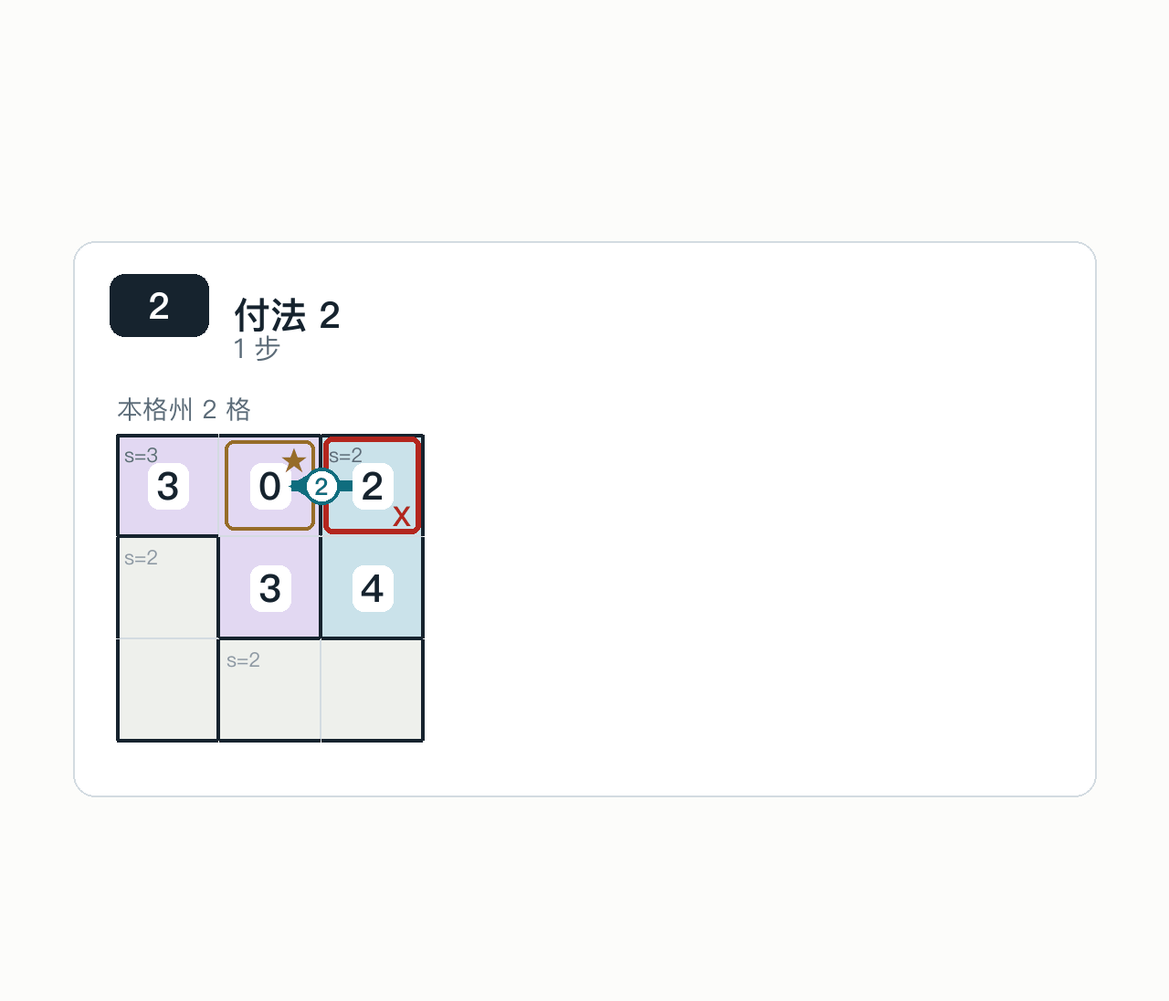
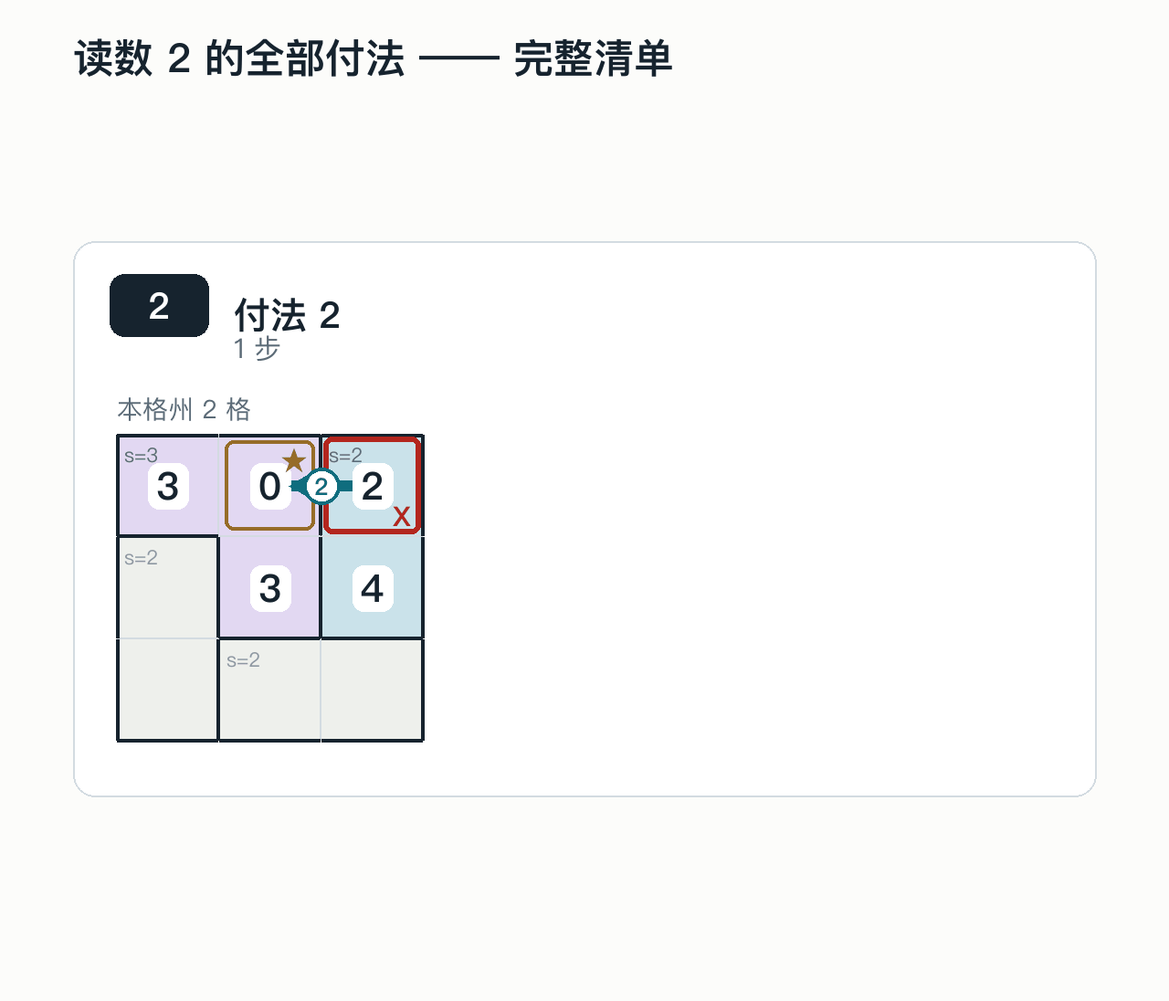
page: the lemma says what it is — the complete list of ways a reading is paid
The list is exhaustive, so the page says so: for every reading from 0 to 8
these are ALL the ways such a number can be paid, not a sample of them. The
figure carries the same line, so a picture opened on its own says it too.

  the intro names the completeness ("if a square reads 5, the four ways below
  are all of them")
  every card carries a "complete" badge
  the family line reads "all the ways it can be paid", not "families"
  the figures get a one-line head: "every way a reading of k can be paid —
  the complete list"

Changed region(s): [[0.0625, 0.031, 0.3438, 0.0931], [0.4375, 0.031, 0.5938, 0.0931], [0.375, 0.031, 0.4062, 0.062]]

diff --git a/its-a-metric-too/lemma.html b/its-a-metric-too/lemma.html
@@ -49,6 +49,7 @@ a { color: var(--accent); }
 .lemma figcaption b { font-family: var(--f-display); font-size: 1.05rem; font-weight: 700; color: var(--ink); }
 .lemma .lp { font-size: 0.74rem; color: var(--muted); }
 .lemma .lp.pin { color: var(--good); }
+.lemma .lp.ok { color: var(--accent); font-weight: 600; }
 .lemma img { max-width: 100%; height: auto; width: auto; display: block;
   border: 1px solid var(--line); border-radius: 3px; background: #fcfcf9; }
 .lemma a.fig { display: inline-block; max-width: 100%; line-height: 0; }
@@ -64,7 +65,7 @@ a { color: var(--accent); }
   <header>
     <div>
       <h1 data-i18n="lemmaPageTitle">The lemma: what a reading forces</h1>
-      <p class="sub" data-i18n="lemmaIntro">A number in a square is a cost: the least total cost of any walk from that square to a capitol. This page says what that number can be — the ways it can be paid, drawn on boards the rule engine checked — and what each way forces on the square that carries it.</p>
+      <p class="sub" data-i18n="lemmaIntro">A number in a square is a cost: the least total cost of any walk from that square to a capitol. <b>For every reading from 0 to 8, what follows is the complete list</b> — every way such a number can be paid, each one drawn on a board the rule engine checked, and what it forces on the square that carries it. There is no “and so on”: if a square reads 5, the four ways below are all of them.</p>
     </div>
     <nav class="pagelinks">
       <a href="harness.html" data-i18n="linkHarness">Play the harness</a>
@@ -77,58 +78,58 @@ a { color: var(--accent); }
 
   <section class="lemmas">
     <figure class="lemma">
-      <figcaption><b data-i18n="lemmaWord">Reading</b> 0 <span class="lp" data-i18n="lemmaFree">does not pin the square's own state size</span></figcaption>
+      <figcaption><b data-i18n="lemmaWord">Reading</b> 0 <span class="lp" data-i18n="lemmaFree">does not pin the square's own state size</span> <span class="lp ok" data-i18n="lemmaComplete">complete</span></figcaption>
       <a class="fig" data-i18n-href="reading-scenarios/reading-0.en.png" href="reading-scenarios/reading-0.en.png" target="_blank" rel="noopener"><img src="reading-scenarios/reading-0.en.png" alt="Reading 0: the square that reads 0, and the states it can sit in" data-i18n-src="figSrc0" data-i18n-alt="figAlt0" loading="lazy"></a>
       <p class="lnote" data-i18n="lemmaRead0">The square IS a capitol, and its state's size is odd (1, 3, 5, …) — the lower bound is 1, not 3.</p>
-      <p class="lfam"><span data-i18n="lemmaFamsWord">families</span>: —</p>
+      <p class="lfam"><span data-i18n="lemmaFamsNone">the only case</span></p>
     </figure>
     <figure class="lemma">
-      <figcaption><b data-i18n="lemmaWord">Reading</b> 1 <span class="lp" data-i18n="lemmaFree">does not pin the square's own state size</span></figcaption>
+      <figcaption><b data-i18n="lemmaWord">Reading</b> 1 <span class="lp" data-i18n="lemmaFree">does not pin the square's own state size</span> <span class="lp ok" data-i18n="lemmaComplete">complete</span></figcaption>
       <a class="fig" data-i18n-href="reading-scenarios/reading-1.en.png" href="reading-scenarios/reading-1.en.png" target="_blank" rel="noopener"><img src="reading-scenarios/reading-1.en.png" alt="Reading 1: a step of cost 1 into a 1x1 state" data-i18n-src="figSrc1" data-i18n-alt="figAlt1" loading="lazy"></a>
       <p class="lnote" data-i18n="lemmaRead1">The square touches a 1×1 state and is not a capitol itself. An equivalence, not just an implication.</p>
-      <p class="lfam"><span data-i18n="lemmaFamsWord">families</span>: 1</p>
+      <p class="lfam"><span data-i18n="lemmaFamsWord">all the ways it can be paid</span>: 1</p>
     </figure>
     <figure class="lemma">
-      <figcaption><b data-i18n="lemmaWord">Reading</b> 2 <span class="lp pin" data-i18n="lemmaPin">pins the square's own state size</span></figcaption>
+      <figcaption><b data-i18n="lemmaWord">Reading</b> 2 <span class="lp pin" data-i18n="lemmaPin">pins the square's own state size</span> <span class="lp ok" data-i18n="lemmaComplete">complete</span></figcaption>
       <a class="fig" data-i18n-href="reading-scenarios/reading-2.en.png" href="reading-scenarios/reading-2.en.png" target="_blank" rel="noopener"><img src="reading-scenarios/reading-2.en.png" alt="Reading 2: a 2-cell state next to a capitol" data-i18n-src="figSrc2" data-i18n-alt="figAlt2" loading="lazy"></a>
       <p class="lnote" data-i18n="lemmaRead2">The square is in a 2-cell state, next to a capitol of odd size ≥ 3. This is the only reading that pins the square's own state.</p>
-      <p class="lfam"><span data-i18n="lemmaFamsWord">families</span>: 2</p>
+      <p class="lfam"><span data-i18n="lemmaFamsWord">all the ways it can be paid</span>: 2</p>
     </figure>
     <figure class="lemma">
-      <figcaption><b data-i18n="lemmaWord">Reading</b> 3 <span class="lp" data-i18n="lemmaFree">does not pin the square's own state size</span></figcaption>
+      <figcaption><b data-i18n="lemmaWord">Reading</b> 3 <span class="lp" data-i18n="lemmaFree">does not pin the square's own state size</span> <span class="lp ok" data-i18n="lemmaComplete">complete</span></figcaption>
       <a class="fig" data-i18n-href="reading-scenarios/reading-3.en.png" href="reading-scenarios/reading-3.en.png" target="_blank" rel="noopener"><img src="reading-scenarios/reading-3.en.png" alt="Reading 3: one step of cost 3, and two steps of 2 then 1" data-i18n-src="figSrc3" data-i18n-alt="figAlt3" loading="lazy"></a>
       <p class="lnote" data-i18n="lemmaRead3">Two families: one step of cost 3, or 2+1 into a 1×1. The own state is not pinned, so "reading 3 ⇒ a 3-cell state" is false.</p>
-      <p class="lfam"><span data-i18n="lemmaFamsWord">families</span>: 2+1 · 3</p>
+      <p class="lfam"><span data-i18n="lemmaFamsWord">all the ways it can be paid</span>: 2+1 · 3</p>
     </figure>
     <figure class="lemma">
-      <figcaption><b data-i18n="lemmaWord">Reading</b> 4 <span class="lp" data-i18n="lemmaFree">does not pin the square's own state size</span></figcaption>
+      <figcaption><b data-i18n="lemmaWord">Reading</b> 4 <span class="lp" data-i18n="lemmaFree">does not pin the square's own state size</span> <span class="lp ok" data-i18n="lemmaComplete">complete</span></figcaption>
       <a class="fig" data-i18n-href="reading-scenarios/reading-4.en.png" href="reading-scenarios/reading-4.en.png" target="_blank" rel="noopener"><img src="reading-scenarios/reading-4.en.png" alt="Reading 4: the three ways a reading of 4 can be paid" data-i18n-src="figSrc4" data-i18n-alt="figAlt4" loading="lazy"></a>
       <p class="lnote" data-i18n="lemmaRead4">Three families: 4, 3+1, 2+2. Only the one-step family pins the own state, at 4.</p>
-      <p class="lfam"><span data-i18n="lemmaFamsWord">families</span>: 2+2 · 3+1 · 4</p>
+      <p class="lfam"><span data-i18n="lemmaFamsWord">all the ways it can be paid</span>: 2+2 · 3+1 · 4</p>
     </figure>
     <figure class="lemma">
-      <figcaption><b data-i18n="lemmaWord">Reading</b> 5 <span class="lp" data-i18n="lemmaFree">does not pin the square's own state size</span></figcaption>
+      <figcaption><b data-i18n="lemmaWord">Reading</b> 5 <span class="lp" data-i18n="lemmaFree">does not pin the square's own state size</span> <span class="lp ok" data-i18n="lemmaComplete">complete</span></figcaption>
       <a class="fig" data-i18n-href="reading-scenarios/reading-5.en.png" href="reading-scenarios/reading-5.en.png" target="_blank" rel="noopener"><img src="reading-scenarios/reading-5.en.png" alt="Reading 5: the four ways a reading of 5 can be paid" data-i18n-src="figSrc5" data-i18n-alt="figAlt5" loading="lazy"></a>
       <p class="lnote" data-i18n="lemmaRead5">Four families: 5, 4+1, 2+3, 2+2+1. The own state is not pinned.</p>
-      <p class="lfam"><span data-i18n="lemmaFamsWord">families</span>: 2+2+1 · 2+3 · 4+1 · 5</p>
+      <p class="lfam"><span data-i18n="lemmaFamsWord">all the ways it can be paid</span>: 2+2+1 · 2+3 · 4+1 · 5</p>
     </figure>
     <figure class="lemma">
-      <figcaption><b data-i18n="lemmaWord">Reading</b> 6 <span class="lp" data-i18n="lemmaFree">does not pin the square's own state size</span></figcaption>
+      <figcaption><b data-i18n="lemmaWord">Reading</b> 6 <span class="lp" data-i18n="lemmaFree">does not pin the square's own state size</span> <span class="lp ok" data-i18n="lemmaComplete">complete</span></figcaption>
       <a class="fig" data-i18n-href="reading-scenarios/reading-6.en.png" href="reading-scenarios/reading-6.en.png" target="_blank" rel="noopener"><img src="reading-scenarios/reading-6.en.png" alt="Reading 6: the seven ways a reading of 6 can be paid" data-i18n-src="figSrc6" data-i18n-alt="figAlt6" loading="lazy"></a>
       <p class="lnote" data-i18n="lemmaRead6">Seven families. The own state is not pinned.</p>
-      <p class="lfam"><span data-i18n="lemmaFamsWord">families</span>: 2+2+2 · 2+3+1 · 2+4 · 3+2+1 · 3+3 · 5+1 · 6</p>
+      <p class="lfam"><span data-i18n="lemmaFamsWord">all the ways it can be paid</span>: 2+2+2 · 2+3+1 · 2+4 · 3+2+1 · 3+3 · 5+1 · 6</p>
     </figure>
     <figure class="lemma">
-      <figcaption><b data-i18n="lemmaWord">Reading</b> 7 <span class="lp" data-i18n="lemmaFree">does not pin the square's own state size</span></figcaption>
+      <figcaption><b data-i18n="lemmaWord">Reading</b> 7 <span class="lp" data-i18n="lemmaFree">does not pin the square's own state size</span> <span class="lp ok" data-i18n="lemmaComplete">complete</span></figcaption>
       <a class="fig" data-i18n-href="reading-scenarios/reading-7.en.png" href="reading-scenarios/reading-7.en.png" target="_blank" rel="noopener"><img src="reading-scenarios/reading-7.en.png" alt="Reading 7: the eleven ways a reading of 7 can be paid" data-i18n-src="figSrc7" data-i18n-alt="figAlt7" loading="lazy"></a>
       <p class="lnote" data-i18n="lemmaRead7">Eleven families. The own state is not pinned.</p>
-      <p class="lfam"><span data-i18n="lemmaFamsWord">families</span>: 2+2+2+1 · 2+2+3 · 2+4+1 · 2+5 · 3+2+2 · 3+3+1 · 3+4 · 4+2+1 · 4+3 · 6+1 · 7</p>
+      <p class="lfam"><span data-i18n="lemmaFamsWord">all the ways it can be paid</span>: 2+2+2+1 · 2+2+3 · 2+4+1 · 2+5 · 3+2+2 · 3+3+1 · 3+4 · 4+2+1 · 4+3 · 6+1 · 7</p>
     </figure>
     <figure class="lemma">
-      <figcaption><b data-i18n="lemmaWord">Reading</b> 8 <span class="lp" data-i18n="lemmaFree">does not pin the square's own state size</span></figcaption>
+      <figcaption><b data-i18n="lemmaWord">Reading</b> 8 <span class="lp" data-i18n="lemmaFree">does not pin the square's own state size</span> <span class="lp ok" data-i18n="lemmaComplete">complete</span></figcaption>
       <a class="fig" data-i18n-href="reading-scenarios/reading-8.en.png" href="reading-scenarios/reading-8.en.png" target="_blank" rel="noopener"><img src="reading-scenarios/reading-8.en.png" alt="Reading 8: the seventeen ways a reading of 8 can be paid" data-i18n-src="figSrc8" data-i18n-alt="figAlt8" loading="lazy"></a>
       <p class="lnote" data-i18n="lemmaRead8">Seventeen families. The own state is not pinned.</p>
-      <p class="lfam"><span data-i18n="lemmaFamsWord">families</span>: 2+2+2+2 · 2+2+3+1 · 2+2+4 · 2+3+2+1 · 2+3+3 · 2+5+1 · 2+6 · 3+2+2+1 · 3+4+1 · 3+5 · 4+2+2 · 4+3+1 · 4+4 · 5+2+1 · 5+3 · 7+1 · 8</p>
+      <p class="lfam"><span data-i18n="lemmaFamsWord">all the ways it can be paid</span>: 2+2+2+2 · 2+2+3+1 · 2+2+4 · 2+3+2+1 · 2+3+3 · 2+5+1 · 2+6 · 3+2+2+1 · 3+4+1 · 3+5 · 4+2+2 · 4+3+1 · 4+4 · 5+2+1 · 5+3 · 7+1 · 8</p>
     </figure>
   </section>
 
@@ -362,10 +363,12 @@ const I18N = {
   noteConOpen: 'Your constraint at %s cannot be checked yet: %s',
   statusConBad: '%s of your own constraints are broken: %s',
   lemmaPageTitle: 'The lemma: what a reading forces',
-  lemmaIntro: 'A number in a square is a cost: the least total cost of any walk from that square to a capitol. This page says what that number can be — the ways it can be paid, drawn on boards the rule engine checked — and what each way forces on the square that carries it.',
+  lemmaIntro: 'A number in a square is a cost: the least total cost of any walk from that square to a capitol. <b>For every reading from 0 to 8, what follows is the complete list</b> — every way such a number can be paid, each one drawn on a board the rule engine checked, and what it forces on the square that carries it. There is no “and so on”: if a square reads 5, the four ways below are all of them.',
   lemmaLegend: 'Red ring: the square that reads k · gold: a capitol (it reads 0) · teal: the cheapest route to a capitol, with the cost of each step on it · grey: a filler state, which has no capitol and no reading of its own.',
   lemmaWord: 'Reading',
-  lemmaFamsWord: 'families',
+  lemmaFamsWord: 'all the ways it can be paid',
+  lemmaComplete: 'complete',
+  lemmaFamsNone: 'the only case',
   lemmaPin: 'pins the square\'s own state size',
   lemmaFree: 'does not pin the square\'s own state size',
   lemmaRead0: 'The square IS a capitol, and its state\'s size is odd (1, 3, 5, …) — the lower bound is 1, not 3.',

diff --git a/its-a-metric-too/lemma.zh.html b/its-a-metric-too/lemma.zh.html
@@ -49,6 +49,7 @@ a { color: var(--accent); }
 .lemma figcaption b { font-family: var(--f-display); font-size: 1.05rem; font-weight: 700; color: var(--ink); }
 .lemma .lp { font-size: 0.74rem; color: var(--muted); }
 .lemma .lp.pin { color: var(--good); }
+.lemma .lp.ok { color: var(--accent); font-weight: 600; }
 .lemma img { max-width: 100%; height: auto; width: auto; display: block;
   border: 1px solid var(--line); border-radius: 3px; background: #fcfcf9; }
 .lemma a.fig { display: inline-block; max-width: 100%; line-height: 0; }
@@ -64,7 +65,7 @@ a { color: var(--accent); }
   <header>
     <div>
       <h1 data-i18n="lemmaPageTitle">引理：读数强制了什么</h1>
-      <p class="sub" data-i18n="lemmaIntro">格子里的数是一个代价：从这一格走到任意首都的最小总代价。这一页说明这个数可以是什么 —— 它的各种付法，画在经规则引擎复核的盘上 —— 以及每种付法对带着这个数的格子强制了什么。</p>
+      <p class="sub" data-i18n="lemmaIntro">格子里的数是一个代价：从这一格走到任意首都的最小总代价。<b>对每一个 0 到 8 的读数，下面就是完整的清单</b> —— 这个数可能的全部付法，每一种都画在经规则引擎复核的盘上，以及它对带着这个数的格子强制了什么。没有「以此类推」：如果一格读 5，下面这四种就是全部。</p>
     </div>
     <nav class="pagelinks">
       <a href="harness.html" data-i18n="linkHarness">去玩</a>
@@ -77,58 +78,58 @@ a { color: var(--accent); }
 
   <section class="lemmas">
     <figure class="lemma">
-      <figcaption><b data-i18n="lemmaWord">读数</b> 0 <span class="lp" data-i18n="lemmaFree">不钉死这一格的州大小</span></figcaption>
+      <figcaption><b data-i18n="lemmaWord">读数</b> 0 <span class="lp" data-i18n="lemmaFree">不钉死这一格的州大小</span> <span class="lp ok" data-i18n="lemmaComplete">完整</span></figcaption>
       <a class="fig" data-i18n-href="reading-scenarios/reading-0.zh.png" href="reading-scenarios/reading-0.zh.png" target="_blank" rel="noopener"><img src="reading-scenarios/reading-0.zh.png" alt="读数 0：读 0 的那一格，以及它可能所在的州" data-i18n-src="figSrc0" data-i18n-alt="figAlt0" loading="lazy"></a>
       <p class="lnote" data-i18n="lemmaRead0">这一格就是首府，而且所在州的大小是奇数（1、3、5……）—— 下界是 1，不是 3。</p>
-      <p class="lfam"><span data-i18n="lemmaFamsWord">付法</span>: —</p>
+      <p class="lfam"><span data-i18n="lemmaFamsNone">只有这一种情形</span></p>
     </figure>
     <figure class="lemma">
-      <figcaption><b data-i18n="lemmaWord">读数</b> 1 <span class="lp" data-i18n="lemmaFree">不钉死这一格的州大小</span></figcaption>
+      <figcaption><b data-i18n="lemmaWord">读数</b> 1 <span class="lp" data-i18n="lemmaFree">不钉死这一格的州大小</span> <span class="lp ok" data-i18n="lemmaComplete">完整</span></figcaption>
       <a class="fig" data-i18n-href="reading-scenarios/reading-1.zh.png" href="reading-scenarios/reading-1.zh.png" target="_blank" rel="noopener"><img src="reading-scenarios/reading-1.zh.png" alt="读数 1：一步代价 1 进 1×1 州" data-i18n-src="figSrc1" data-i18n-alt="figAlt1" loading="lazy"></a>
       <p class="lnote" data-i18n="lemmaRead1">这一格挨着一个 1×1 州，且自己不是首府。是等价替换，不只是单向。</p>
-      <p class="lfam"><span data-i18n="lemmaFamsWord">付法</span>: 1</p>
+      <p class="lfam"><span data-i18n="lemmaFamsWord">全部的付法</span>: 1</p>
     </figure>
     <figure class="lemma">
-      <figcaption><b data-i18n="lemmaWord">读数</b> 2 <span class="lp pin" data-i18n="lemmaPin">钉死这一格的州大小</span></figcaption>
+      <figcaption><b data-i18n="lemmaWord">读数</b> 2 <span class="lp pin" data-i18n="lemmaPin">钉死这一格的州大小</span> <span class="lp ok" data-i18n="lemmaComplete">完整</span></figcaption>
       <a class="fig" data-i18n-href="reading-scenarios/reading-2.zh.png" href="reading-scenarios/reading-2.zh.png" target="_blank" rel="noopener"><img src="reading-scenarios/reading-2.zh.png" alt="读数 2：挨着首府的 2 格州" data-i18n-src="figSrc2" data-i18n-alt="figAlt2" loading="lazy"></a>
       <p class="lnote" data-i18n="lemmaRead2">这一格在 2 格州里，且紧挨着一个奇数 ≥ 3 的首府。这是唯一钉死这一格州大小的读数。</p>
-      <p class="lfam"><span data-i18n="lemmaFamsWord">付法</span>: 2</p>
+      <p class="lfam"><span data-i18n="lemmaFamsWord">全部的付法</span>: 2</p>
     </figure>
     <figure class="lemma">
-      <figcaption><b data-i18n="lemmaWord">读数</b> 3 <span class="lp" data-i18n="lemmaFree">不钉死这一格的州大小</span></figcaption>
+      <figcaption><b data-i18n="lemmaWord">读数</b> 3 <span class="lp" data-i18n="lemmaFree">不钉死这一格的州大小</span> <span class="lp ok" data-i18n="lemmaComplete">完整</span></figcaption>
       <a class="fig" data-i18n-href="reading-scenarios/reading-3.zh.png" href="reading-scenarios/reading-3.zh.png" target="_blank" rel="noopener"><img src="reading-scenarios/reading-3.zh.png" alt="读数 3：一步付 3，以及两步 2 再 1" data-i18n-src="figSrc3" data-i18n-alt="figAlt3" loading="lazy"></a>
       <p class="lnote" data-i18n="lemmaRead3">两族：一步付 3，或 2+1 进 1×1。州大小不钉死，所以「读 3 就是 3 格州」是错的。</p>
-      <p class="lfam"><span data-i18n="lemmaFamsWord">付法</span>: 2+1 · 3</p>
+      <p class="lfam"><span data-i18n="lemmaFamsWord">全部的付法</span>: 2+1 · 3</p>
     </figure>
     <figure class="lemma">
-      <figcaption><b data-i18n="lemmaWord">读数</b> 4 <span class="lp" data-i18n="lemmaFree">不钉死这一格的州大小</span></figcaption>
+      <figcaption><b data-i18n="lemmaWord">读数</b> 4 <span class="lp" data-i18n="lemmaFree">不钉死这一格的州大小</span> <span class="lp ok" data-i18n="lemmaComplete">完整</span></figcaption>
       <a class="fig" data-i18n-href="reading-scenarios/reading-4.zh.png" href="reading-scenarios/reading-4.zh.png" target="_blank" rel="noopener"><img src="reading-scenarios/reading-4.zh.png" alt="读数 4：读 4 的三种付法" data-i18n-src="figSrc4" data-i18n-alt="figAlt4" loading="lazy"></a>
       <p class="lnote" data-i18n="lemmaRead4">三族：4、3+1、2+2。只有一步那一族钉死州大小，钉在 4。</p>
-      <p class="lfam"><span data-i18n="lemmaFamsWord">付法</span>: 2+2 · 3+1 · 4</p>
+      <p class="lfam"><span data-i18n="lemmaFamsWord">全部的付法</span>: 2+2 · 3+1 · 4</p>
     </figure>
     <figure class="lemma">
-      <figcaption><b data-i18n="lemmaWord">读数</b> 5 <span class="lp" data-i18n="lemmaFree">不钉死这一格的州大小</span></figcaption>
+      <figcaption><b data-i18n="lemmaWord">读数</b> 5 <span class="lp" data-i18n="lemmaFree">不钉死这一格的州大小</span> <span class="lp ok" data-i18n="lemmaComplete">完整</span></figcaption>
       <a class="fig" data-i18n-href="reading-scenarios/reading-5.zh.png" href="reading-scenarios/reading-5.zh.png" target="_blank" rel="noopener"><img src="reading-scenarios/reading-5.zh.png" alt="读数 5：读 5 的四种付法" data-i18n-src="figSrc5" data-i18n-alt="figAlt5" loading="lazy"></a>
       <p class="lnote" data-i18n="lemmaRead5">四族：5、4+1、2+3、2+2+1。州大小不钉死。</p>
-      <p class="lfam"><span data-i18n="lemmaFamsWord">付法</span>: 2+2+1 · 2+3 · 4+1 · 5</p>
+      <p class="lfam"><span data-i18n="lemmaFamsWord">全部的付法</span>: 2+2+1 · 2+3 · 4+1 · 5</p>
     </figure>
     <figure class="lemma">
-      <figcaption><b data-i18n="lemmaWord">读数</b> 6 <span class="lp" data-i18n="lemmaFree">不钉死这一格的州大小</span></figcaption>
+      <figcaption><b data-i18n="lemmaWord">读数</b> 6 <span class="lp" data-i18n="lemmaFree">不钉死这一格的州大小</span> <span class="lp ok" data-i18n="lemmaComplete">完整</span></figcaption>
       <a class="fig" data-i18n-href="reading-scenarios/reading-6.zh.png" href="reading-scenarios/reading-6.zh.png" target="_blank" rel="noopener"><img src="reading-scenarios/reading-6.zh.png" alt="读数 6：读 6 的七种付法" data-i18n-src="figSrc6" data-i18n-alt="figAlt6" loading="lazy"></a>
       <p class="lnote" data-i18n="lemmaRead6">七族。州大小不钉死。</p>
-      <p class="lfam"><span data-i18n="lemmaFamsWord">付法</span>: 2+2+2 · 2+3+1 · 2+4 · 3+2+1 · 3+3 · 5+1 · 6</p>
+      <p class="lfam"><span data-i18n="lemmaFamsWord">全部的付法</span>: 2+2+2 · 2+3+1 · 2+4 · 3+2+1 · 3+3 · 5+1 · 6</p>
     </figure>
     <figure class="lemma">
-      <figcaption><b data-i18n="lemmaWord">读数</b> 7 <span class="lp" data-i18n="lemmaFree">不钉死这一格的州大小</span></figcaption>
+      <figcaption><b data-i18n="lemmaWord">读数</b> 7 <span class="lp" data-i18n="lemmaFree">不钉死这一格的州大小</span> <span class="lp ok" data-i18n="lemmaComplete">完整</span></figcaption>
       <a class="fig" data-i18n-href="reading-scenarios/reading-7.zh.png" href="reading-scenarios/reading-7.zh.png" target="_blank" rel="noopener"><img src="reading-scenarios/reading-7.zh.png" alt="读数 7：读 7 的十一种付法" data-i18n-src="figSrc7" data-i18n-alt="figAlt7" loading="lazy"></a>
       <p class="lnote" data-i18n="lemmaRead7">十一族。州大小不钉死。</p>
-      <p class="lfam"><span data-i18n="lemmaFamsWord">付法</span>: 2+2+2+1 · 2+2+3 · 2+4+1 · 2+5 · 3+2+2 · 3+3+1 · 3+4 · 4+2+1 · 4+3 · 6+1 · 7</p>
+      <p class="lfam"><span data-i18n="lemmaFamsWord">全部的付法</span>: 2+2+2+1 · 2+2+3 · 2+4+1 · 2+5 · 3+2+2 · 3+3+1 · 3+4 · 4+2+1 · 4+3 · 6+1 · 7</p>
     </figure>
     <figure class="lemma">
-      <figcaption><b data-i18n="lemmaWord">读数</b> 8 <span class="lp" data-i18n="lemmaFree">不钉死这一格的州大小</span></figcaption>
+      <figcaption><b data-i18n="lemmaWord">读数</b> 8 <span class="lp" data-i18n="lemmaFree">不钉死这一格的州大小</span> <span class="lp ok" data-i18n="lemmaComplete">完整</span></figcaption>
       <a class="fig" data-i18n-href="reading-scenarios/reading-8.zh.png" href="reading-scenarios/reading-8.zh.png" target="_blank" rel="noopener"><img src="reading-scenarios/reading-8.zh.png" alt="读数 8：读 8 的十七种付法" data-i18n-src="figSrc8" data-i18n-alt="figAlt8" loading="lazy"></a>
       <p class="lnote" data-i18n="lemmaRead8">十七族。州大小不钉死。</p>
-      <p class="lfam"><span data-i18n="lemmaFamsWord">付法</span>: 2+2+2+2 · 2+2+3+1 · 2+2+4 · 2+3+2+1 · 2+3+3 · 2+5+1 · 2+6 · 3+2+2+1 · 3+4+1 · 3+5 · 4+2+2 · 4+3+1 · 4+4 · 5+2+1 · 5+3 · 7+1 · 8</p>
+      <p class="lfam"><span data-i18n="lemmaFamsWord">全部的付法</span>: 2+2+2+2 · 2+2+3+1 · 2+2+4 · 2+3+2+1 · 2+3+3 · 2+5+1 · 2+6 · 3+2+2+1 · 3+4+1 · 3+5 · 4+2+2 · 4+3+1 · 4+4 · 5+2+1 · 5+3 · 7+1 · 8</p>
     </figure>
   </section>
 
@@ -362,10 +363,12 @@ const I18N = {
   noteConOpen: '%s 的约束还查不了：%s',
   statusConBad: '你自己定的约束有 %s 条被打破：%s',
   lemmaPageTitle: '引理：读数强制了什么',
-  lemmaIntro: '格子里的数是一个代价：从这一格走到任意首都的最小总代价。这一页说明这个数可以是什么 —— 它的各种付法，画在经规则引擎复核的盘上 —— 以及每种付法对带着这个数的格子强制了什么。',
+  lemmaIntro: '格子里的数是一个代价：从这一格走到任意首都的最小总代价。<b>对每一个 0 到 8 的读数，下面就是完整的清单</b> —— 这个数可能的全部付法，每一种都画在经规则引擎复核的盘上，以及它对带着这个数的格子强制了什么。没有「以此类推」：如果一格读 5，下面这四种就是全部。',
   lemmaLegend: '红圈：读 k 的那一格 · 金圈：首府（读 0）· 青色：到首府最省的路线，圈里是那一步的代价 · 灰色：填充州，它没有首府，自己也没有读数。',
   lemmaWord: '读数',
-  lemmaFamsWord: '付法',
+  lemmaFamsWord: '全部的付法',
+  lemmaComplete: '完整',
+  lemmaFamsNone: '只有这一种情形',
   lemmaPin: '钉死这一格的州大小',
   lemmaFree: '不钉死这一格的州大小',
   lemmaRead0: '这一格就是首府，而且所在州的大小是奇数（1、3、5……）—— 下界是 1，不是 3。',
